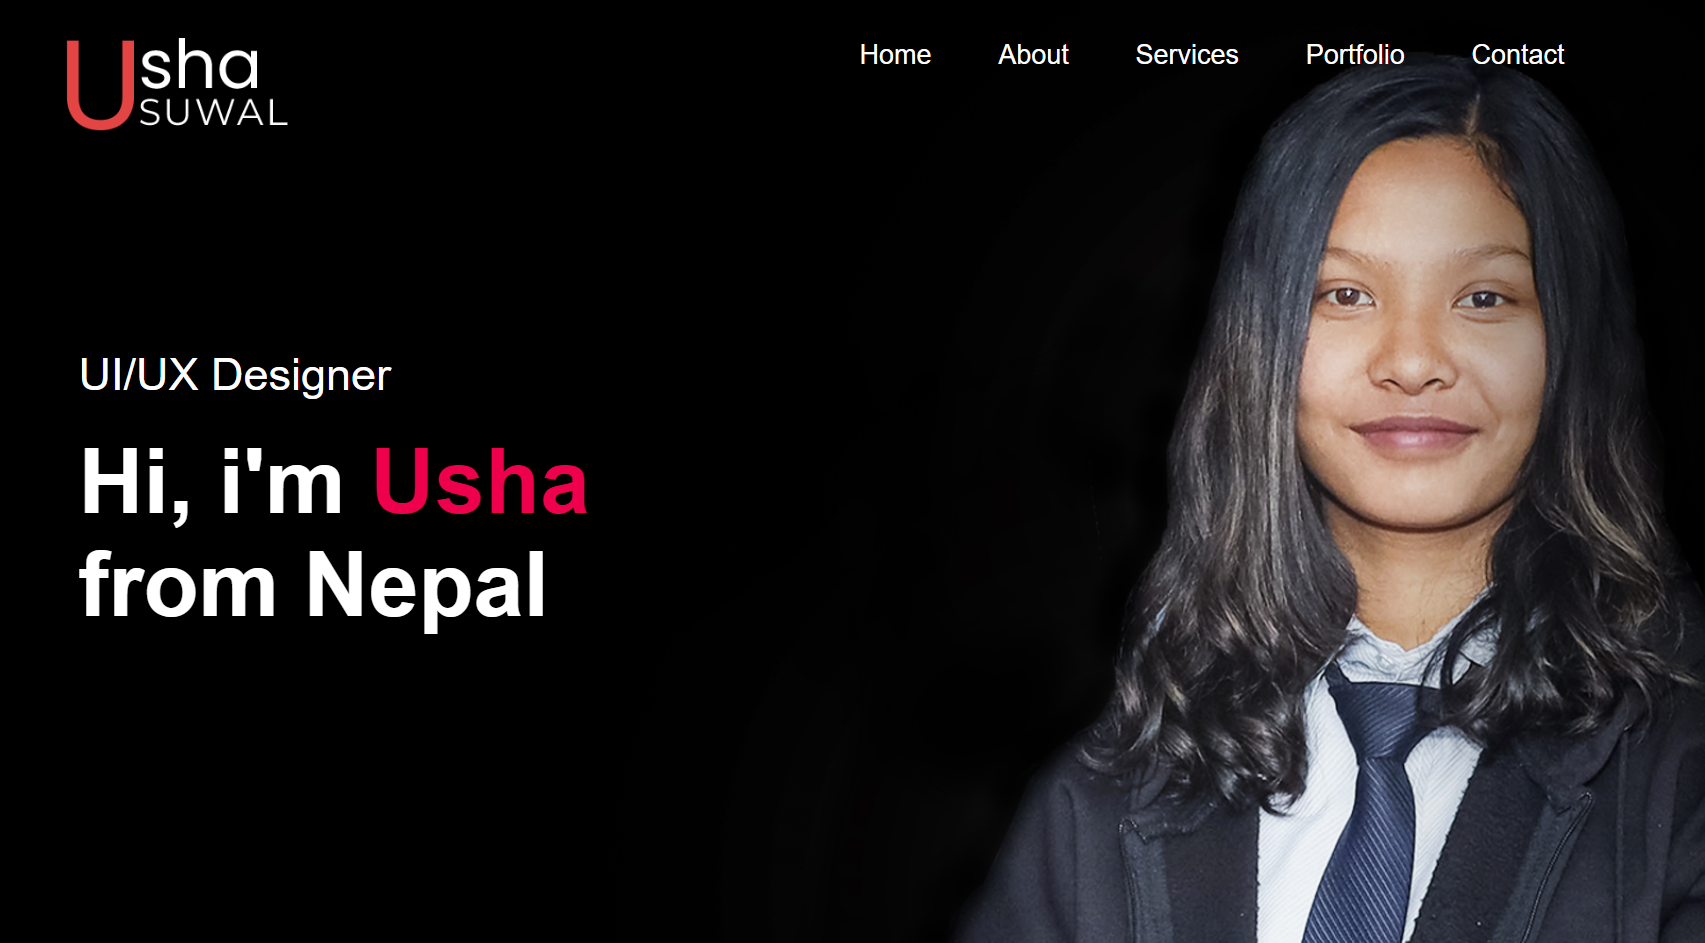
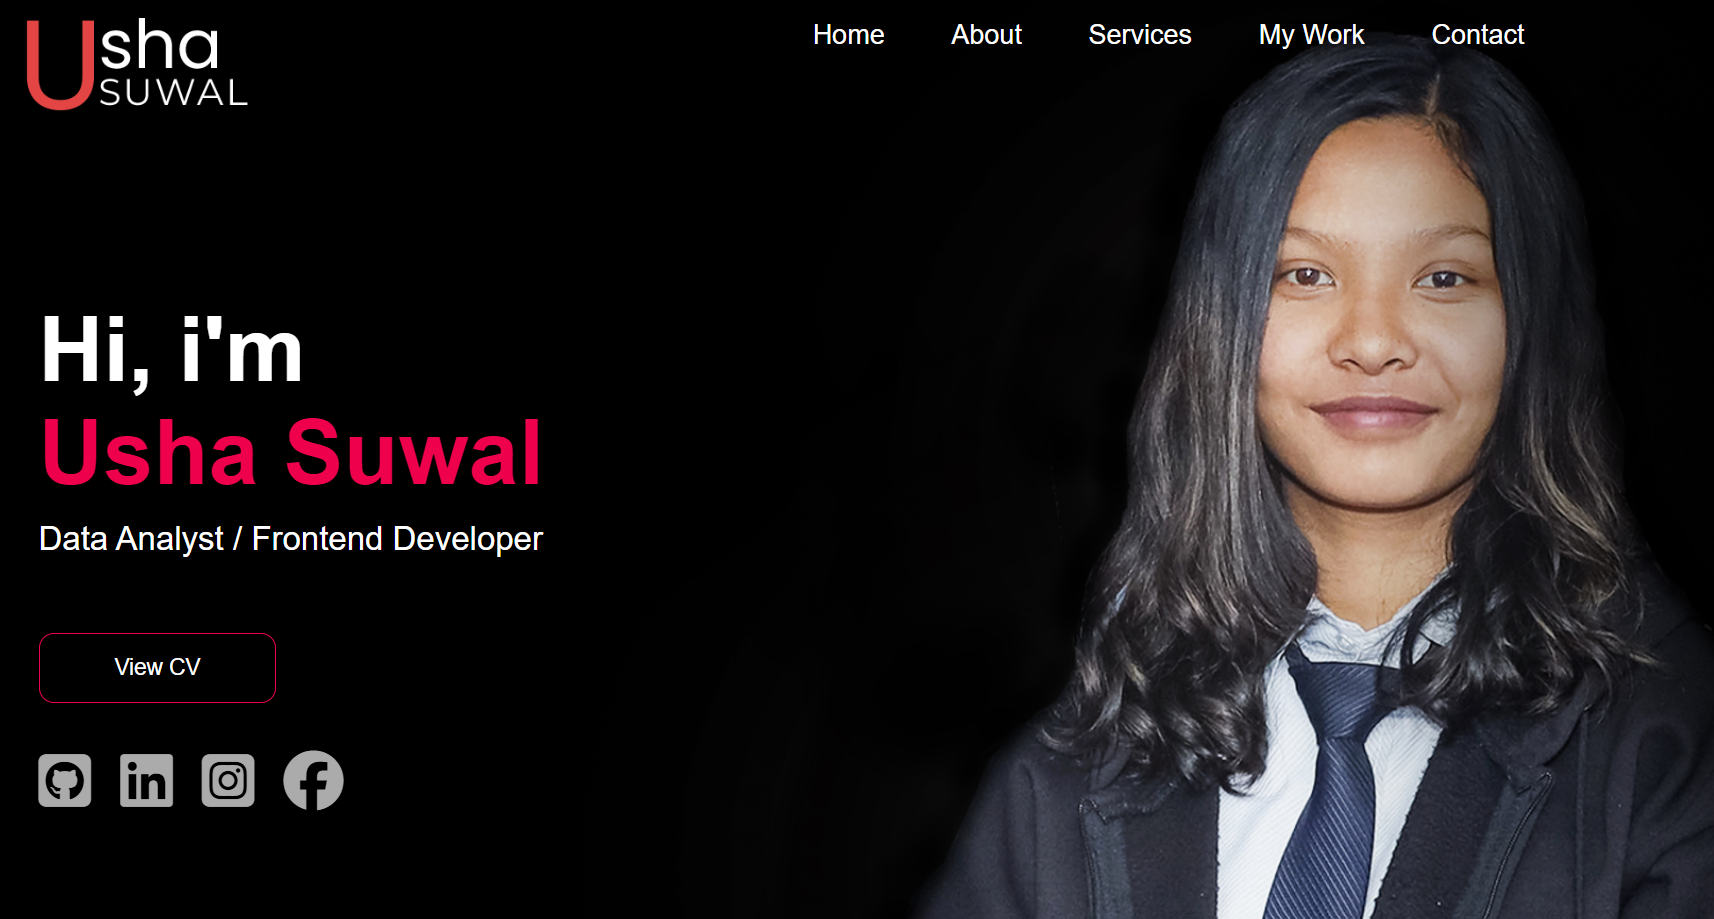
work added

diff --git a/index.html b/index.html
@@ -16,7 +16,7 @@
                 <li><a href="#header">Home</a></li>
                 <li><a href="#about">About</a></li>
                 <li><a href="#services">Services</a></li>
-                <li><a href="#portfolio">Portfolio</a></li>
+                <li><a href="#portfolio">My Work</a></li>
                 <li><a href="#contact">Contact</a></li>
                 <i class="fa-solid fa-xmark" onclick="closemenu()"></i>
             </ul>
@@ -26,7 +26,7 @@
             <h1>Hi, i'm <br><span>Usha Suwal</span><br></h1>
             <p>Data Analyst / Frontend Developer</p>
         </div>
-        <a href="#" class="btn2">CV</a>
+        <a href="#" class="btn2">View CV</a>
         <div class="social-media">
             <a href="https://github.com/UshaSuwal" target="_blank"><i class="fa-brands fa-square-github"></i></a>
             <a href="https://www.linkedin.com/in/usha-suwal-1438062aa/" target="_blank"><i class="fa-brands fa-linkedin"></i></a>
@@ -71,10 +71,10 @@
                 </div>
                 <div class="tab-contents" id="education">
                     <ul>
-                        <li><span>2074 BS</span><br>SEE from Learner's Academy,Bhaktapur.</li>
-                        <li><span>2077 BS</span><br>+2(Intermediate) from Khwopa Higher Secondary School.</li>
-                        <li><span>2080 BS</span><br>Python and Data Science training from Broadway Infosys, Kathmandu.</li>
-                        <li><span>Present</span><br>Bachelor of Science in Computer Science and Information Technology <br>at Samriddhi College,Lokanthali-Bhaktapur.</li>
+                        <li><span>2004-2018</span><br>SEE from Learner's Academy,Bhaktapur.</li>
+                        <li><span>2018-2020</span><br>+2(Intermediate) from Khwopa Higher Secondary School.</li>
+                        <li><span>2023</span><br>Python and Data Science training from Broadway Infosys, Kathmandu.</li>
+                        <li><span>2021-Present</span><br>Bachelor of Science in Computer Science and Information Technology <br>at Samriddhi College,Lokanthali-Bhaktapur.</li>
                     </ul>
                 </div>
             </div>
@@ -130,7 +130,24 @@
                 </div>
             </div>
             <div class="work">
-                <img src="images/salary.jpg" alt="work2">
+                <img src="images/super.jpg" alt="work2">
+                <div class="layer">
+                    <h3>SuperStore EDA</h3>
+                    <p>Analyzes superstore data for insightful profit and sales predictions.</p>
+                    <a href="https://dsproject-store.streamlit.app/" target="_blank"><i class="fa-solid fa-arrow-up-right-from-square"></i></a>
+                </div>
+            </div>
+            <div class="work">
+                <img src="images/dia.jpg" alt="work3">
+                <div class="layer">
+                    <h3>Diabetes Predictor</h3>
+                    <p>Predicts diabetes risk for better health planning and awareness.</p>
+                    <a href="https://dsproject-diabetes.streamlit.app/" target="_blank"><i class="fa-solid fa-arrow-up-right-from-square"></i></a>
+                </div>
+            </div>
+            
+            <div class="work">
+                <img src="images/salary.jpg" alt="work4">
                 <div class="layer">
                     <h3>Salary Prediction Model</h3>
                     <p>Predicts salary by analyzing diverse factors, ensuring proper compensation forecasts.</p>
@@ -138,29 +155,22 @@
                 </div>
             </div>
             <div class="work">
-                <img src="images/email.jpg" alt="work3">
+                <img src="images/portfolio.png" alt="work5">
+                <div class="layer">
+                    <h3>Portfolio Website</h3>
+                    <p>Personal website highlighting my work in a minimalist design.</p>
+                    <a href="#"><i class="fa-solid fa-arrow-up-right-from-square"></i></a>
+                </div>
+            </div>
+            <div class="work">
+                <img src="images/email.jpg" alt="work6">
                 <div class="layer">
                     <h3>Spam Email Detector</h3>
                     <p>Detects spam emails for a secure and clean inbox experience.</p>
                     <a href="https://dsproject-email.streamlit.app/" target="_blank"><i class="fa-solid fa-arrow-up-right-from-square"></i></a>
                 </div>
             </div>
-            <div class="work">
-                <img src="images/imdb.jpg" alt="work4">
-                <div class="layer">
-                    <h3>IMDB Review Analyzer </h3>
-                    <p>Evaluates movie sentiment for informed viewing decisions.</p>
-                    <a href="https://dsproject-imdb.streamlit.app/" target="_blank"><i class="fa-solid fa-arrow-up-right-from-square"></i></a>
-                </div>
-            </div>
-            <div class="work">
-                <img src="images/portfolio.png" alt="work5">
-                <div class="layer">
-                    <h3>Portfolio Website</h3>
-                    <p>Personal website highlighting my work and achievements in a minimalist design.</p>
-                    <a href="#"><i class="fa-solid fa-arrow-up-right-from-square"></i></a>
-                </div>
-            </div>
+            
         </div>
         <a href="work.html" target="_blank" class="btn">See more</a>
     </div>

diff --git a/work.html b/work.html
@@ -21,30 +21,39 @@
                     </div>
                 </div>
                 <div class="work">
+                    <h2>Content Creation</h2> <br>
+                    <img src="images/content.png" alt="work2">
+                    <div class="layer">
+                        <h3>Content Creation </h3>
+                        <p>Creating tasty moments, sharing the joy of food through vlogs.</p>
+                        <a href="https://www.instagram.com/snackus__/" target="_blank"><i class="fa-solid fa-arrow-up-right-from-square"></i></a>
+                    </div>
+                </div>
+                <div class="work">
+                    <h2>SuperStore EDA</h2> <br>
+                    <img src="images/super.jpg" alt="work2">
+                    <div class="layer">
+                        <h3>SuperStore EDA</h3>
+                        <p>Analyzes superstore data for insightful profit and sales predictions.</p>
+                        <a href="https://dsproject-store.streamlit.app/" target="_blank"><i class="fa-solid fa-arrow-up-right-from-square"></i></a>
+                    </div>
+                </div>
+                <div class="work">
+                    <h2>Diabetes Predictor</h2> <br>
+                    <img src="images/dia.jpg" alt="work3">
+                    <div class="layer">
+                        <h3>Diabetes Predictor</h3>
+                        <p>Predicts diabetes risk for better health planning and awareness.</p>
+                        <a href="https://dsproject-diabetes.streamlit.app/" target="_blank"><i class="fa-solid fa-arrow-up-right-from-square"></i></a>
+                    </div>
+                </div>
+                <div class="work">
                     <h2>Salary Prediction Model</h2> <br>
-                    <img src="images/salary.jpg" alt="work2">
+                    <img src="images/salary.jpg" alt="work4">
                     <div class="layer">
                         <h3>Salary Prediction Model</h3>
                         <p>Predicts salary by analyzing diverse factors, ensuring proper compensation forecasts.</p>
                         <a href="https://dsproject-salary.streamlit.app/" target="_blank"><i class="fa-solid fa-arrow-up-right-from-square"></i></a>
-                    </div>
-                </div>
-                <div class="work">
-                    <h2>Spam Email Detector</h2> <br>
-                    <img src="images/email.jpg" alt="work3">
-                    <div class="layer">
-                        <h3>Spam Email Detector</h3>
-                        <p>Detects spam emails for a secure and clean inbox experience.</p>
-                        <a href="https://dsproject-email.streamlit.app/" target="_blank"><i class="fa-solid fa-arrow-up-right-from-square"></i></a>
-                    </div>
-                </div>
-                <div class="work">
-                    <h2>IMDb Review Analyzer</h2> <br>
-                    <img src="images/imdb.jpg" alt="work4">
-                    <div class="layer">
-                        <h3>IMDB Review Analyzer </h3>
-                        <p>Evaluates movie sentiment for informed viewing decisions.</p>
-                        <a href="https://dsproject-imdb.streamlit.app/" target="_blank"><i class="fa-solid fa-arrow-up-right-from-square"></i></a>
                     </div>
                 </div>
                 <div class="work">
@@ -53,9 +62,28 @@
                     <div class="layer">
                         <h3>Portfolio Website</h3>
                         <p>Personal website highlighting my work and achievements in a minimalist design.</p>
-                        <a href="#"><i class="fa-solid fa-arrow-up-right-from-square"></i></a>
+                        <a href="https://ushasuwal.github.io/Portfolio/"><i class="fa-solid fa-arrow-up-right-from-square"></i></a>
                     </div>
                 </div>
+                <div class="work">
+                    <h2>Spam Email Detector</h2> <br>
+                    <img src="images/email.jpg" alt="work6">
+                    <div class="layer">
+                        <h3>Spam Email Detector</h3>
+                        <p>Detects spam emails for a secure and clean inbox experience.</p>
+                        <a href="https://dsproject-email.streamlit.app/" target="_blank"><i class="fa-solid fa-arrow-up-right-from-square"></i></a>
+                    </div>
+                </div>
+                <div class="work">
+                    <h2>IMDb Review Analyzer</h2> <br>
+                    <img src="images/imdb.jpg" alt="work7">
+                    <div class="layer">
+                        <h3>IMDB Review Analyzer </h3>
+                        <p>Evaluates movie sentiment for informed viewing decisions.</p>
+                        <a href="https://dsproject-imdb.streamlit.app/" target="_blank"><i class="fa-solid fa-arrow-up-right-from-square"></i></a>
+                    </div>
+                </div>
+                
             </div>
         </div>
     </div>    

diff --git a/service_styl.css b/service_styl.css
@@ -1,18 +1,22 @@
 body{
     background-color: #080808;
-    color: #ababab;
+    color: white;
     font-family: 'Poppins',sans-serif;
-    border: 5px solid #ff004f; /* Adjust the width and color as needed */
-    box-sizing: border-box; /* Ensures that the border width is included in the total width of the body */
     margin: 30 100px;
+}
+html{
+    scroll-behavior: smooth;
 }
 .container{
     padding: 10px 10%;
     line-height: 2;
+    border: 0px solid #ababab; /* Border color */
+    background-color: #262626; /* Background color inside the border */
     
 }
 
 h1{
+    text-align: center;
     color:#ff004f;
     font-size: 40px;
 }
@@ -24,3 +28,6 @@ span{
     font-size: 20px;
     color:#ff004f;
 }
+
+
+  

diff --git a/work.css b/work.css
@@ -29,7 +29,7 @@ h1{
 }
 .work-list{
     display:grid;
-    grid-template-columns: repeat(auto-fit,minmax(350px,1fr));
+    grid-template-columns: repeat(auto-fit,minmax(250px,1fr));
     grid-gap:40px;
     margin-top: 50px;
 }
@@ -86,6 +86,6 @@ h1{
     transform: scale(1.1);
 }
 .work:hover .layer{
-    height: 93%;
+    height: 90%;
 }
 
